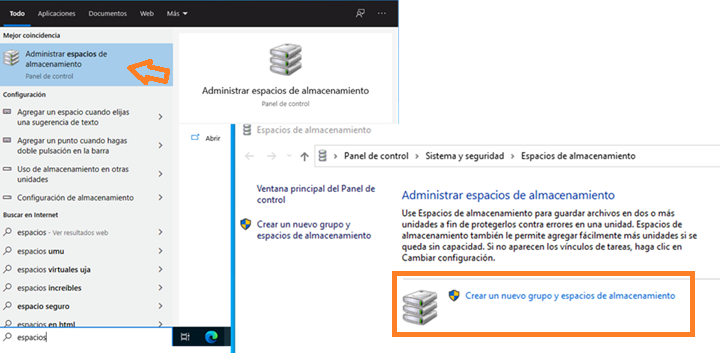
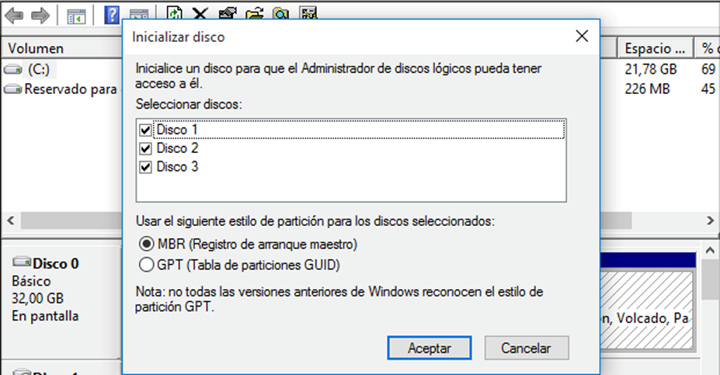
Afegida introducció i conceptes bàsics a la guia d'espais d'emmagatzematge, amb exemples pràctics i noves imatges per a una millor comprensió.

diff --git a/StorageSpaces.md b/StorageSpaces.md
@@ -1,8 +1,10 @@
 # Guia gestió d'espais d'emmagatzematge a Windows
 
+## Introducció
+
 Els espais d'emmagatzematge van aparèixer a partir de Windows 8 i Windows Server 2012, i permeten crear volums virtuals amb redundància i tolerància a fallades. Aquests espais d'emmagatzematge poden ser configurats amb diferents nivells de redundància i són molt més flexibles que els sistemes RAID tradicionals, ja que per exemple, permeten anar afegint emmagzetmatge addicional a mesura que les necessitats de l'organització creixen.
 
-Hi ha dos conceptes que no cal confondre:
+## Conceptes bàsics
 
 - **Grup emmagatzematge**: és un conjunt de discs durs físics que s'utilitzen per crear espais d'emmagatzematge, el podem entendre com un contenidor de discos.
 
@@ -15,24 +17,84 @@ Els espais d'emmagatzematge permeten crear volums virtuals amb diferents nivells
 - **Paritat**: amb redundància, similar a un RAID 5, ja que utilitza un disc dur per emmagatzemar la informació de paritat. Requereix de tres discos.
 - **Mirall triple**: amb redundància, similar a un RAID 1, però amb més tolerància a fallades, ja que manté tres còpies de la informació. Requereix de cinc discos i es basa a la tecnologia de "cluster quantum" [2](https://www.techtarget.com/whatis/definition/cluster-quorum-disk)
 
+## Exemple pràctic sobre VM
 
+### Creació del grup d'emmagatzematge
 
-### Administrador de discs
+El primer pas és crear tants discos com siguin necessaris a la màquina virtual, inicialment, per exemple es crearan 3 discos de 10 GB.
 
-El primer pas un cop iniciem la màquina virtual és anar al "Administrador de discos", en entrar ens avisarà que detecta tres discos sense inicialitzar. Els podem inicialitzar amb el sistema de fitxers NTFS i amb l'estil de partició MBR.
+![Creació de discos](media/ss01.png)
 
-![Administrador de discos](./media/imagen01.png)
+Un cop iniciada la màquina, cal anar a **Administrador de discos** i inicialitzar els discos. En aquest cas, s'inicialitzen com a **MBR**.
 
-### Administració d'espais d'emmagatzematge
+![Inicialització de discos](media/ss02.png)
 
-A "Configuració" hi ha l'eina "Administració d'espais d'emmagatzematge"
+> 💡**Alternativa**: es poden crear els discos virtuals directament des la màquina Windows, per fer-ho cal obrir un terminal PowerShell com administrador i per cada disc, executar la comanda: `New-VHD -Path ".ruta\nom_disc.vhdx" -SizeBytes 10GB -Dynamic` on "ruta" és la carpeta on es vol tenir els discos i "nom_disc" és el nom de cadascun dels discos.
+>
+> A continuació, cal executar la comanda `Mount-VHD -Path ".ruta\nom_disc.vhdx"` per muntar cadascun del disc virtual, amb `$disk = Get-Disk | Where-Object PartitionStyle -eq 'RAW` tenim un objecte amb tots els discos no inicialitzats i amb `$disk | Initialize-Disk -PartitionStyle MBR` inicialitzem tots els discos.
 
-![Administració d'espais d'emmagatzematge](./media/imagen02.png)
+Un cop inicialitzats els discos, s'inicia la màquina i s'accedeix a **Sistema/Almacenamiento/Configuración avanzada de almacenamiento/Espacios de almacenamiento** per crear un grup d'emmmatgematge.
 
-Aquí és es creen els grups de volums i els espais.
+![Espais d'emmagatzematge](media/ss03.png)
 
-### Espai Simple
+![Crear grup d'emmagatzematge](media/ss04.png)
 
-1. Creem un grup d'emmagatzematge i afegim **dos** dels tres discos durs a aquest grup.
-2. Definim un espai **simple** i definiu un espai superior al disponible del grup d'emmagatzematge. Assignem un nom i una lletra de unitat a l'espai.
-3. Afegiu ara el tercer disc al grup d'emmagatzematge i observeu com podeu 
+Apareixeran els discos disponibles per afegir al grup. Inicialment, se seleccionen dos dels tres discos. Els grups d'emmagatzematge se li poden afegir més discos en qualsevol moment.
+
+![Crear grup d'emmagatzematge](media/ss05.png)
+
+En crear el grup ja apareix l'opció de crear un espai d'emmagatzematge a dins del grup, tot i que si es dona "cancel·lar" es pot crear més endavant.
+
+Les opcions de gestió del grup d'emmagatzematge permet afegir més discos al grup, canviar el nom del grup, crear un espai d'emmagatzematge o eliminar el grup d'emmagatzematge i "optimitzar" que serveix per repartir les dades entre els discs del grup.
+
+![Menú grup d'emmagatzematge](media/ss06.png)
+
+> 💡**Nota**: També es pot accedir a les mateixes funcions des del **Panel de control**, amb un menú d'estètica Windows clàssica, però progressivament Microsoft està substituint-lo per les opcions de **Configuració**.
+
+### Creació d'un espai d'emmagatzematge simple
+
+Aquest espai permet tenir un volum virtual que pot ser més gran que qualsevol dels discs físics que el componen, però no ofereix cap tipus de redundància. En cas de fallada d'un dels discs, es perd tota la informació.
+
+![Crear espai simple](media/ss07.png)
+
+Quan es defineix, es pot indicar que la mida del volum sigui més gran que la suma de les capacitats dels discs físics, ja que es pot afegir més emmagatzematge al grup en qualsevol moment i afegir quan sigui necessari més discs físics al grup. Un cop seleccionat, es procedirà a donar format i ja apareixerà com un volum al sistema.
+
+![Explorador de fitxers](media/ss08.png)
+
+Per elimiar l'espai d'emmagatzematge, cal anar a **Sistema/Almacenamiento/Configuración avanzada de almacenamiento/Espacios de almacenamiento**, seleccionar l'espai i donar-li a **Eliminar**. Aquesta acció no elimina el grup d'emmagatzematge ni els discs físics que el componen.
+
+### Creació d'un espai d'emmagatzematge mirall doble
+
+Aquesta estructura es comporta com un RAID 1, ja que manté una còpia de la informació en un altre disc. En cas de fallada d'un dels discs, la informació es manté intacta. Cal seleccionar el tipus de volum **Mirall doble** i assignar-li un nom i una lletra de unitat. També cal indicar la mida del volum, quan es fixa, també pot superar l'espai disponible, indicant l'espai real que es necessitarà.
+
+![Crear espai mirall doble](media/ss09.png)
+
+Per comprovar la redundància, s'afegeix contingut al volum i es comprova que es pot accedir a la informació. A continuació, s'apaga la màquina virtual i es desconnecta un dels dos discos que formen part del grup d'emmagatzematge. En tornar a iniciar la màquina, es comprova que la informació és accessible i que el sistema indica que l'espai mirall està degradat.
+
+![Disc amb problemes](media/ss10.png)
+
+Si s'afegeix ara el tercer disc al grup d'emmagatzematge, el sistema començarà a reconstruir la informació que s'ha perdut. Un cop finalitzada la reconstrucció, es pot comprovar que la informació és accessible i que el sistema indica que tots els discs estan correctes.
+
+Finalment, es pot eliminar l'espai d'emmagatzematge mirall doble i comprovar que el volum ja no és accessible.
+
+### Espai d'emmagatzematge amb paritat
+
+Aquest model és similar a un RAID 5, ja que utilitza un disc per emmagatzemar la informació de paritat. Requereix de tres discs físics i permet que un d'ells falli sense perdre la informació. En cas de fallada d'un disc, el sistema indica que hi ha un disc amb problemes i comença a reconstruir la informació quan s'afegeix un nou disc al grup.
+
+Són necessaris els tres discos, per tant, prèviament, cal tornar a connectar el segon disc que s'havia desconnectat. Un cop connectat, es pot crear un espai d'emmagatzematge amb paritat, indicant el nom i la lletra de unitat, així com la mida del volum.
+
+![Crear espai amb paritat](media/ss11.png)
+
+### Espai d'emmagatzematge mirall triple
+
+Aquest model és similar a un RAID 1, però amb més tolerància a fallades ja que suporta errors en dos discos, ja que manté tres còpies de la informació. Requereix de **cinc discos** físics i es basa en la tecnologia de "cluster quantum". En cas de fallada d'un disc, el sistema indica que hi ha un disc amb problemes i comença a reconstruir la informació quan s'afegeix un nou disc al grup.
+
+![Crear espai mirall triple](media/ss12.png)
+
+## Enllaços d'interès
+
+- [Xataka - Storage Spaces en Windows 10](https://www.xatakawindows.com/windows/asi-funciona-la-aplicacion-de-uso-de-almacenamiento-de-windows-10)
+
+- [Microsoft Learn - Espais d'emmagatzematge a Microsoft](https://learn.microsoft.com/en-us/windows-server/storage/storage-spaces/overview)
+
+- [TechTarget - Cluster Quorum Disk](https://www.techtarget.com/whatis/definition/cluster-quorum-disk)
